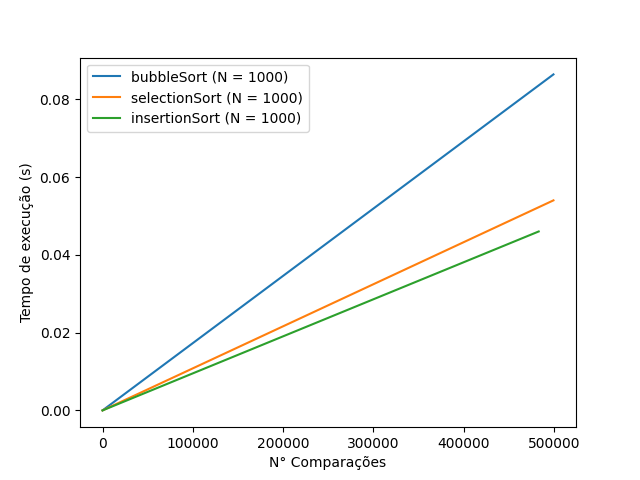
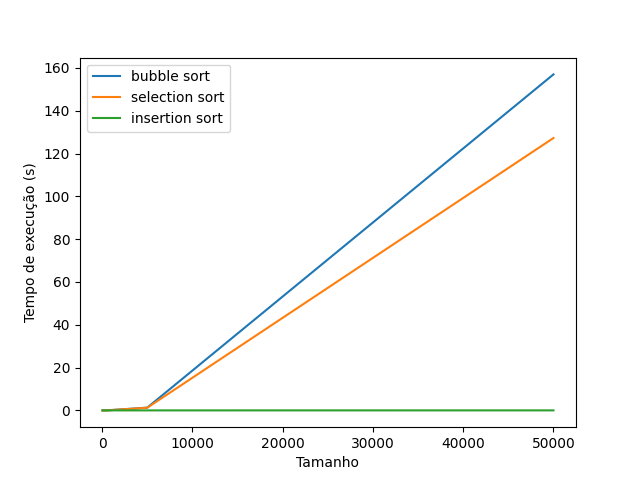
Corrige label dos eixos

diff --git a/main.py b/main.py
@@ -88,7 +88,7 @@ class Test(object):
         
     # draw a graph based on the tests runned
     def drawGraph(self, axes):
-        print(self.comparisons)
+        
         if axes == 'execution time x number of comparisons':
             # x axis
             x = list(self.comparisons)
@@ -104,7 +104,6 @@ class Test(object):
             plt.xlabel('N° Comparações')
             plt.ylabel('Tempo de execução (s)')
             
-           
         else:
             bubbleSortData = {'x': [], 'y': []}
             selectionSortData = {'x': [], 'y': []}
@@ -124,8 +123,8 @@ class Test(object):
                         insertionSortData['y'].append(self.comparisons[i])
                         
                     i = i +1
-                    plt.xlabel('N° Comparações')
-                    plt.ylabel('Tamanho')
+                    plt.ylabel('N° Comparações')
+                    plt.xlabel('Tamanho')
             
             elif axes == 'execution time x size':
                 i = 0
@@ -141,8 +140,8 @@ class Test(object):
                         insertionSortData['y'].append(self.executionTimes[i])
                         
                     i = i +1
-                    plt.xlabel('Tempo de execução (s)')
-                    plt.ylabel('Tamanho')
+                    plt.ylabel('Tempo de execução (s)')
+                    plt.xlabel('Tamanho')
             
             plt.plot(bubbleSortData['x'], bubbleSortData['y'], label='bubble sort')
             plt.plot(selectionSortData['x'], selectionSortData['y'], label='selection sort')
@@ -166,21 +165,22 @@ class Test(object):
         self.algorithm = algorithm
 
 
-t = Test(50, False, 'integer', 'random', selectionSort)
-t.runTest()
-t.setTest(500, False, 'integer', 'random', selectionSort)
-t.runTest()
-t.setTest(5000, False, 'integer', 'random', selectionSort)
-t.setTest(50000, False, 'integer', 'random', selectionSort)
-t.runTest()
-
-t.setTest(50, False, 'integer', 'random', bubbleSort)
+t = Test(50, False, 'integer', 'random', bubbleSort)
 t.runTest()
 t.setTest(500, False, 'integer', 'random', bubbleSort)
 t.runTest()
 t.setTest(5000, False, 'integer', 'random', bubbleSort)
 t.runTest()
 t.setTest(50000, False, 'integer', 'random', bubbleSort)
+t.runTest()
+
+t.setTest(50, False, 'integer', 'random', selectionSort)
+t.runTest()
+t.setTest(500, False, 'integer', 'random', selectionSort)
+t.runTest()
+t.setTest(5000, False, 'integer', 'random', selectionSort)
+t.runTest()
+t.setTest(50000, False, 'integer', 'random', selectionSort)
 t.runTest()
 
 t.setTest(50, False, 'integer', 'random', insertionSort)
